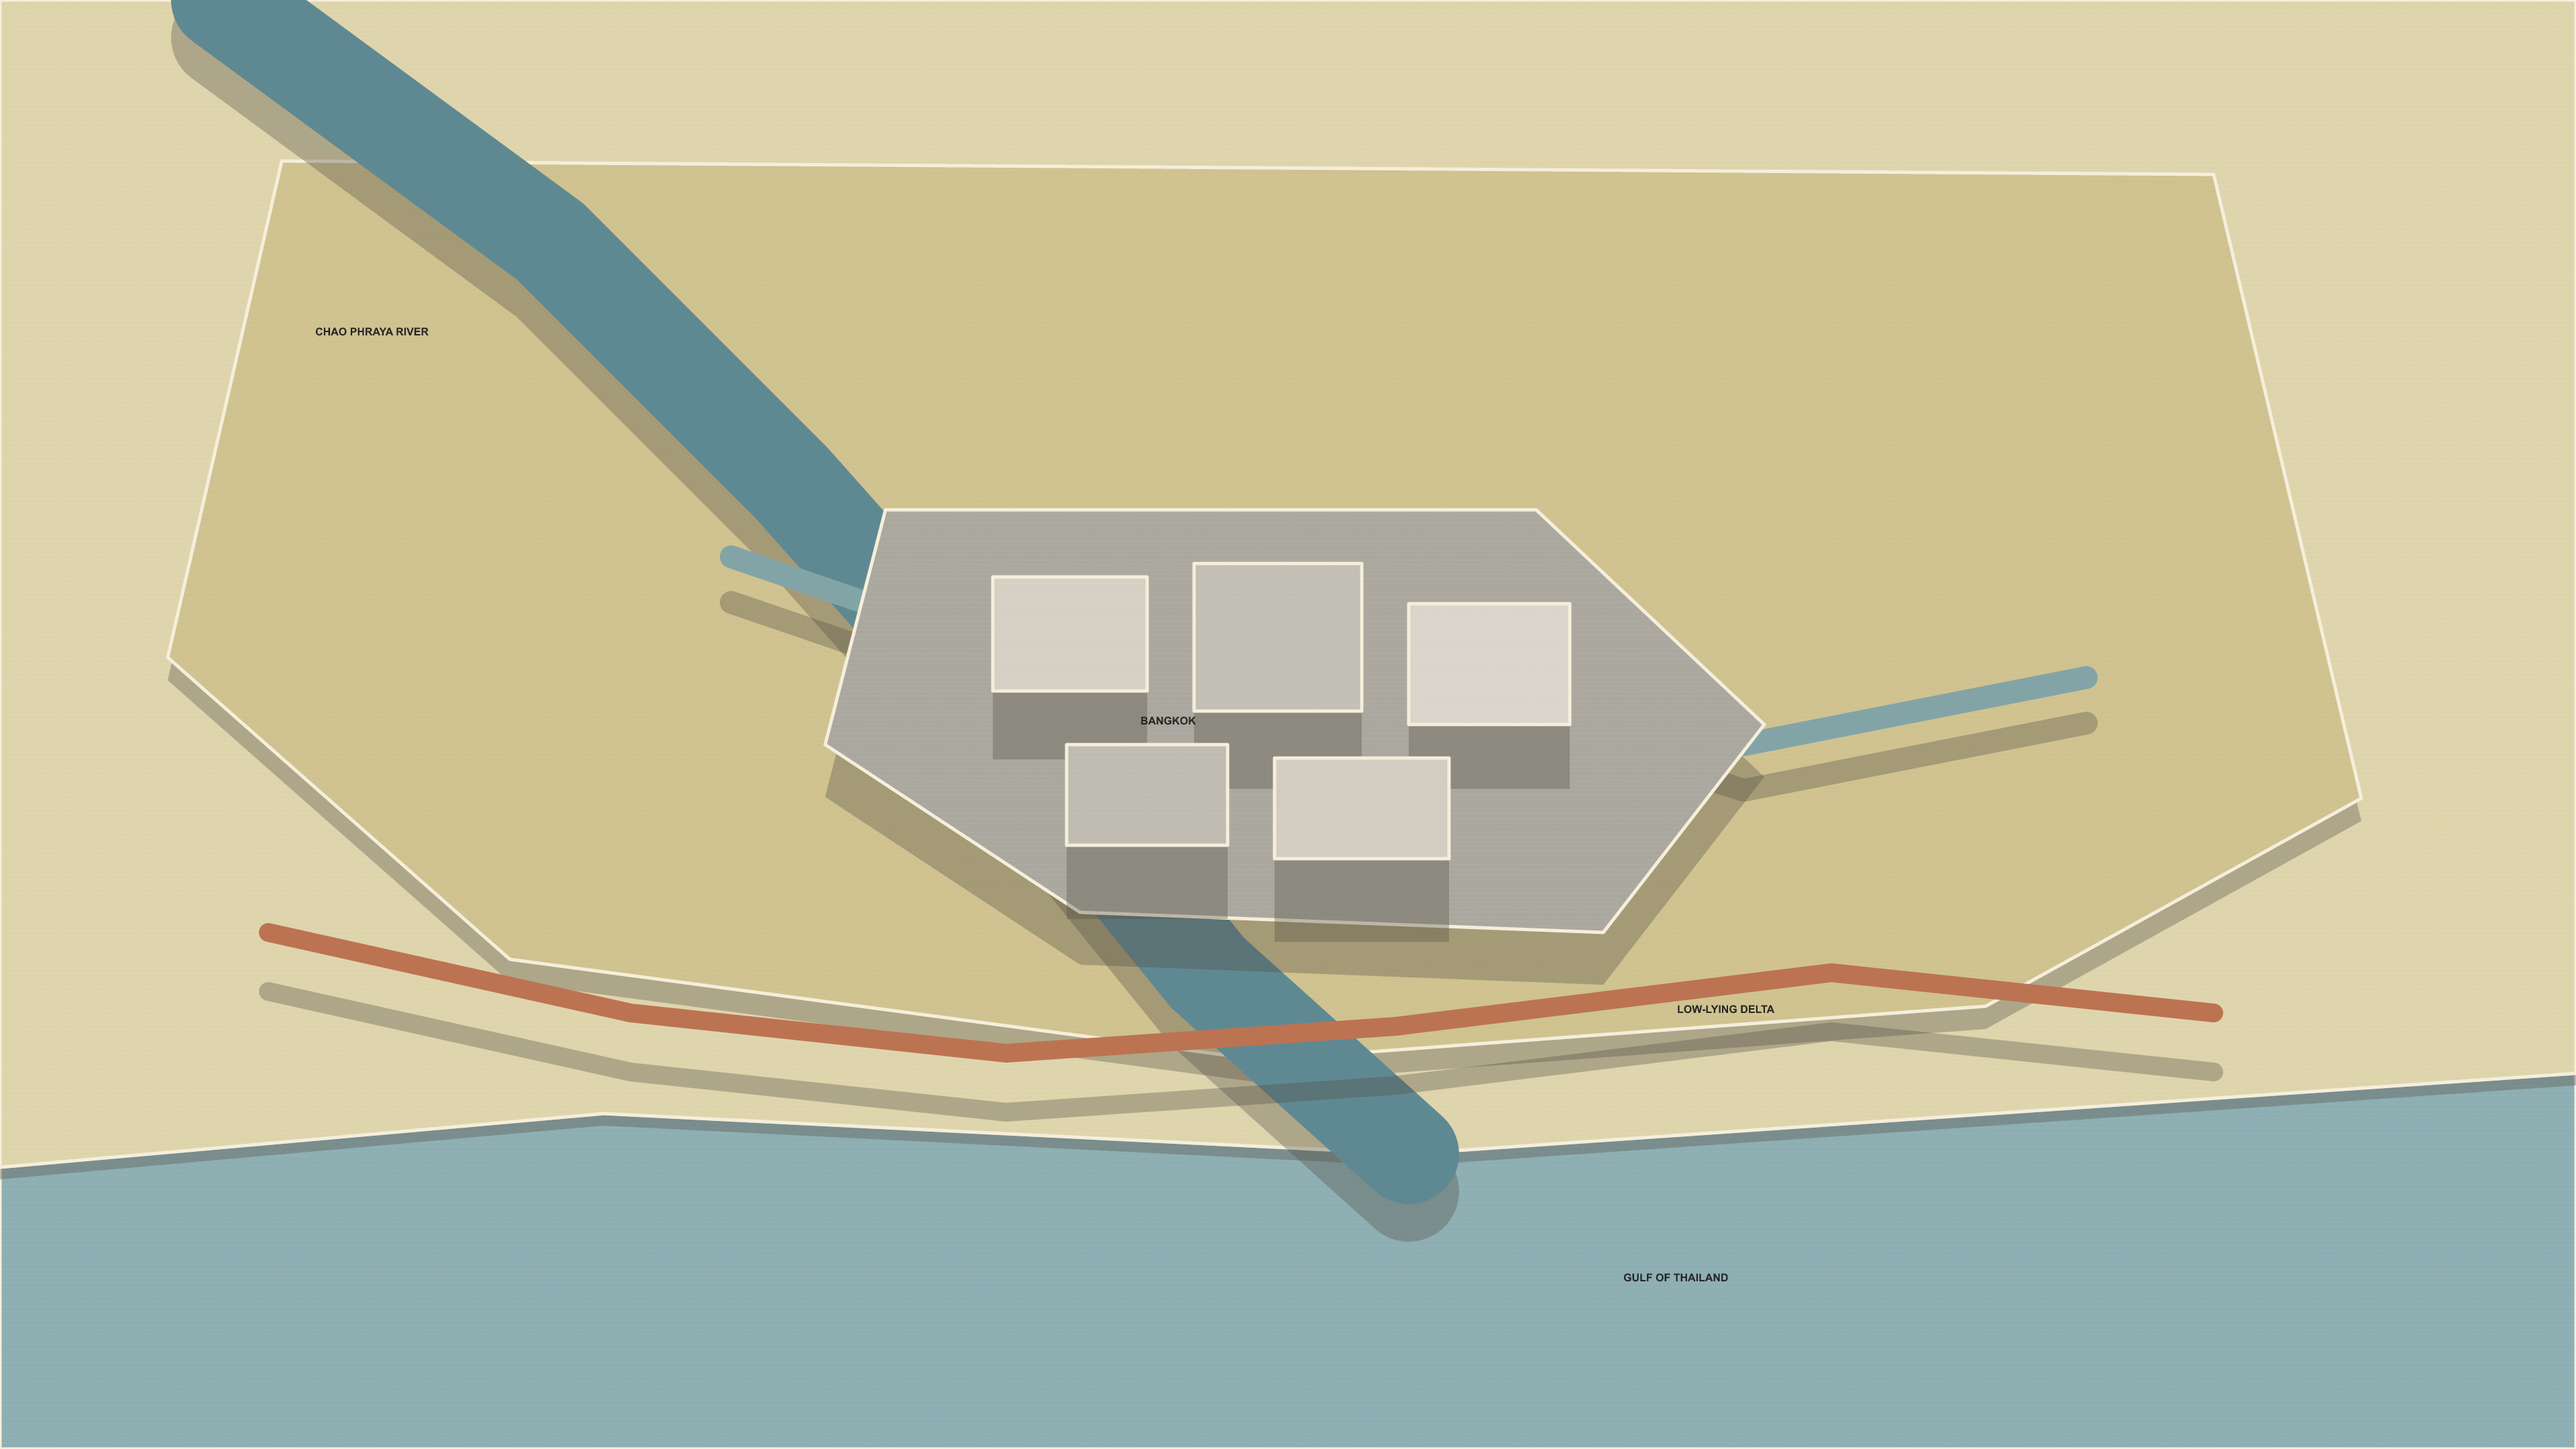
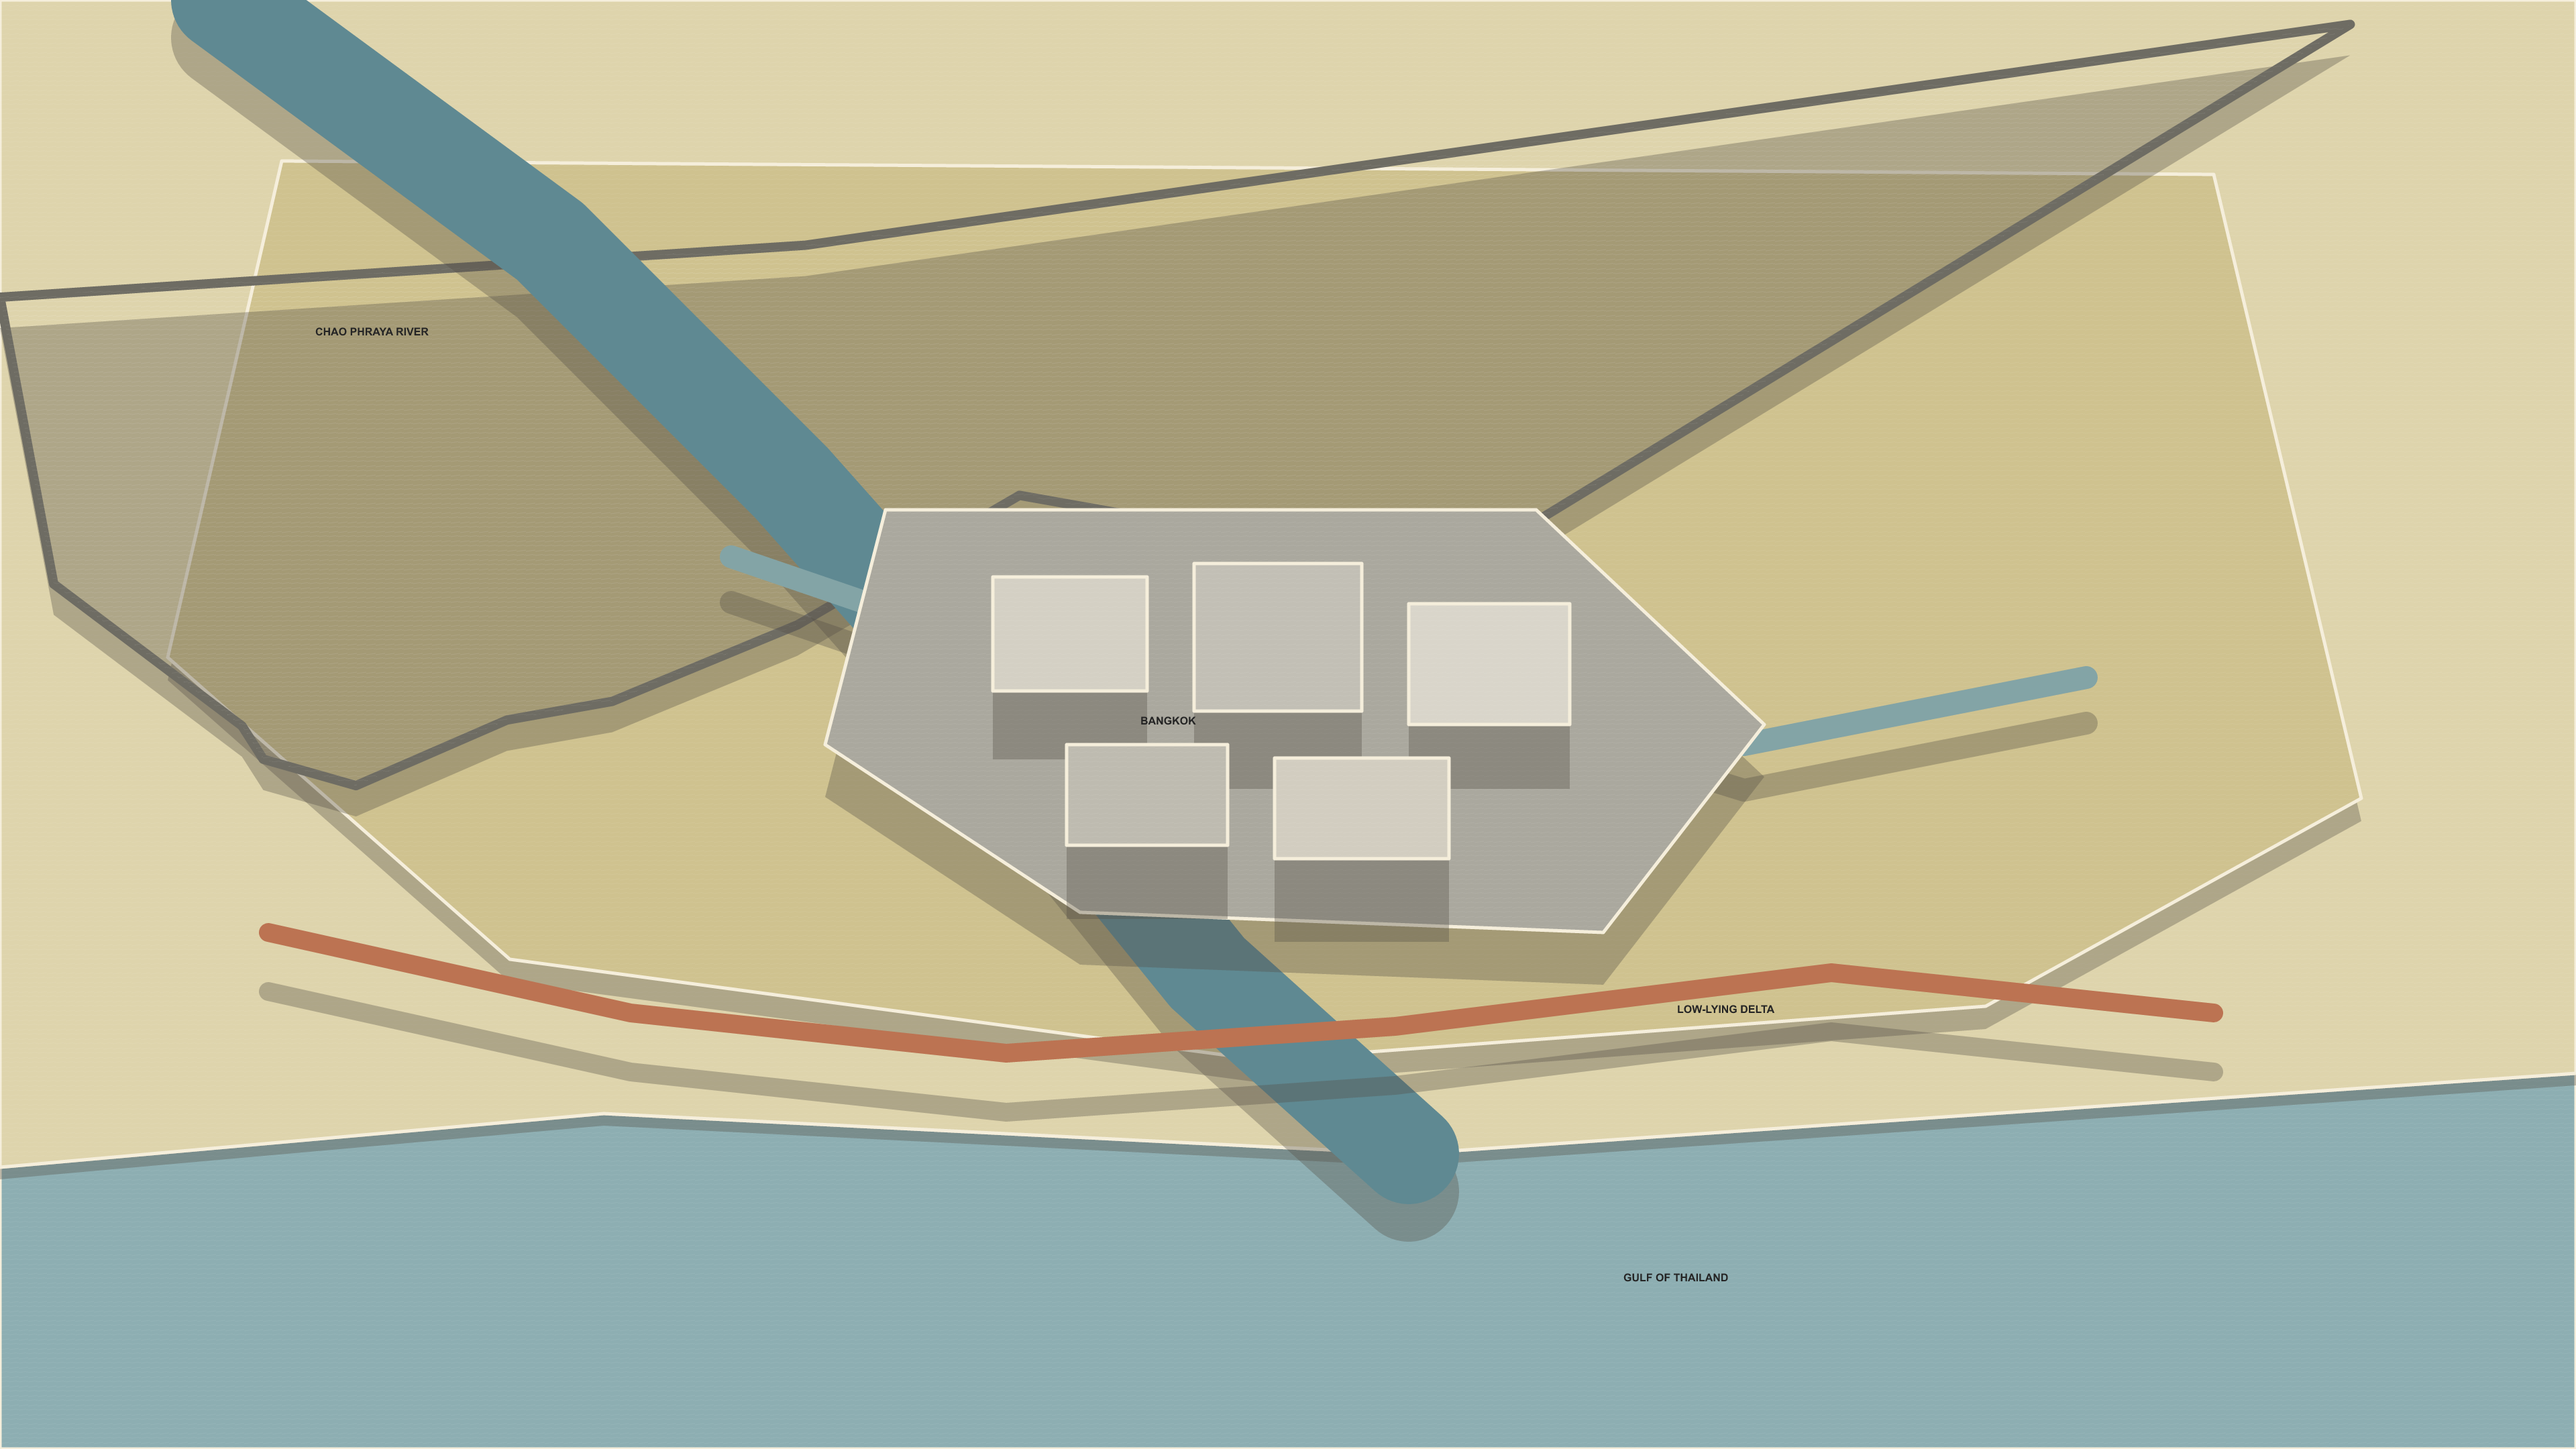
feat: import local GeoJSON scene geometry

Changed region(s): [[0.0, 0.0, 0.9062, 0.5583]]

diff --git a/src/lib.rs b/src/lib.rs
@@ -8,6 +8,8 @@ pub type RenderResult<T> = Result<T, Box<dyn Error>>;
 struct Scene {
     #[serde(default)]
     canvas: Canvas,
+    #[serde(default)]
+    bounds: Option<[f64; 4]>,
     background: String,
     layers: Vec<Layer>,
     #[serde(default)]
@@ -41,6 +43,8 @@ struct Layer {
     stroke_width: f32,
     #[serde(default)]
     lift: f32,
+    #[serde(default)]
+    geojson: Option<String>,
     points: Vec<[f32; 2]>,
     #[serde(default)]
     sources: Vec<String>,
@@ -69,10 +73,19 @@ struct SourceReference {
     retrieved: String,
 }
 
+#[derive(Deserialize)]
+#[serde(tag = "type")]
+enum GeoJson {
+    Feature { geometry: Box<GeoJson> },
+    LineString { coordinates: Vec<[f64; 2]> },
+    Polygon { coordinates: Vec<Vec<[f64; 2]>> },
+}
+
 pub fn render_source_pack(pack: impl AsRef<Path>, output: impl AsRef<Path>) -> RenderResult<()> {
     let pack = pack.as_ref();
-    let scene: Scene = yaml_serde::from_str(&fs::read_to_string(pack.join("scene.yaml"))?)?;
+    let mut scene: Scene = yaml_serde::from_str(&fs::read_to_string(pack.join("scene.yaml"))?)?;
     let sources: Sources = yaml_serde::from_str(&fs::read_to_string(pack.join("sources.yaml"))?)?;
+    resolve_geojson(&mut scene, pack)?;
     validate(&scene, &sources)?;
 
     let svg = compose_svg(&scene);
@@ -88,6 +101,52 @@ pub fn render_source_pack(pack: impl AsRef<Path>, output: impl AsRef<Path>) -> R
     );
     pixmap.save_png(output)?;
     Ok(())
+}
+
+fn resolve_geojson(scene: &mut Scene, pack: &Path) -> RenderResult<()> {
+    let Some([west, south, east, north]) = scene.bounds else {
+        if scene.layers.iter().any(|layer| layer.geojson.is_some()) {
+            return Err("Scene bounds are required for GeoJSON layers".into());
+        }
+        return Ok(());
+    };
+    if east <= west || north <= south {
+        return Err("Scene bounds must be west, south, east, north".into());
+    }
+    for layer in &mut scene.layers {
+        let Some(path) = &layer.geojson else {
+            continue;
+        };
+        let geojson: GeoJson = yaml_serde::from_str(&fs::read_to_string(pack.join(path))?)?;
+        let (kind, coordinates) = geometry_coordinates(geojson)?;
+        if (layer.kind == "line" && kind != "LineString")
+            || (layer.kind == "polygon" && kind != "Polygon")
+        {
+            return Err(format!("Layer '{}' does not match GeoJSON {kind}", layer.id).into());
+        }
+        layer.points = coordinates
+            .into_iter()
+            .map(|[longitude, latitude]| {
+                [
+                    ((longitude - west) / (east - west) * scene.canvas.width as f64) as f32,
+                    ((north - latitude) / (north - south) * scene.canvas.height as f64) as f32,
+                ]
+            })
+            .collect();
+    }
+    Ok(())
+}
+
+fn geometry_coordinates(geojson: GeoJson) -> RenderResult<(&'static str, Vec<[f64; 2]>)> {
+    match geojson {
+        GeoJson::Feature { geometry } => geometry_coordinates(*geometry),
+        GeoJson::LineString { coordinates } => Ok(("LineString", coordinates)),
+        GeoJson::Polygon { coordinates } => coordinates
+            .into_iter()
+            .next()
+            .map(|ring| ("Polygon", ring))
+            .ok_or_else(|| "GeoJSON Polygon needs a linear ring".into()),
+    }
 }
 
 fn validate(scene: &Scene, sources: &Sources) -> RenderResult<()> {
@@ -114,6 +173,9 @@ fn validate(scene: &Scene, sources: &Sources) -> RenderResult<()> {
                 layer.id, layer.kind
             )
             .into());
+        }
+        if layer.points.len() < if layer.kind == "polygon" { 3 } else { 2 } {
+            return Err(format!("Layer '{}' has too few points", layer.id).into());
         }
         validate_references(
             &layer.sources,

diff --git a/tests/render_source_pack.rs b/tests/render_source_pack.rs
@@ -161,6 +161,59 @@ sources:
 }
 
 #[test]
+fn renders_a_local_geojson_line() {
+    let pack = temporary_pack();
+    fs::create_dir_all(pack.join("data")).unwrap();
+    fs::write(
+        pack.join("scene.yaml"),
+        r##"
+canvas:
+  width: 120
+  height: 80
+bounds: [100.0, 13.0, 101.0, 14.0]
+background: "#ffffff"
+layers:
+  - id: river
+    kind: line
+    stroke: "#334455"
+    stroke_width: 10
+    points: []
+    geojson: data/river.geojson
+    sources: [basin]
+"##,
+    )
+    .unwrap();
+    fs::write(
+        pack.join("sources.yaml"),
+        r#"
+sources:
+  - id: basin
+    title: Test source
+    url: https://example.com/source
+    license: CC0-1.0
+    retrieved: 2026-09-16
+"#,
+    )
+    .unwrap();
+    fs::write(
+        pack.join("data/river.geojson"),
+        r#"{"type":"Feature","geometry":{"type":"LineString","coordinates":[[100.1,13.9],[100.9,13.1]]},"properties":{}}"#,
+    )
+    .unwrap();
+    let output = pack.join("render.png");
+
+    render_source_pack(&pack, &output).unwrap();
+
+    let decoder = png::Decoder::new(BufReader::new(fs::File::open(&output).unwrap()));
+    let mut reader = decoder.read_info().unwrap();
+    let mut pixels = vec![0; reader.output_buffer_size().unwrap()];
+    reader.next_frame(&mut pixels).unwrap();
+    let river = &pixels[(40 * 120 + 60) * 4..(40 * 120 + 61) * 4];
+    assert!(river[0] < 100 && river[1] < 100 && river[2] < 100);
+    fs::remove_dir_all(pack).unwrap();
+}
+
+#[test]
 fn rejects_layers_without_a_source_reference() {
     let pack = temporary_pack();
     write_source_pack(&pack, "[]");

diff --git a/docs/source-pack.md b/docs/source-pack.md
@@ -17,6 +17,7 @@ title: Bangkok's Flat Delta
 canvas:
   width: 3840
   height: 2160
+bounds: [100.3278772, 13.2191019, 100.9386039, 13.9551693]
 background: "#edf0e7"
 layers:
   - id: terrain
@@ -38,6 +39,8 @@ labels:
 ```
 
 Supported layer kinds are `polygon` and `line`. Omit `canvas` to render at the default 3840×2160. The Scene source retains named layers; phase one exports one flattened PNG.
+
+For local GeoJSON, add `geojson: data/file.geojson` to a layer and set `bounds` as `[west, south, east, north]`. The first release accepts GeoJSON `LineString` and `Polygon` geometry, including a single `Feature`; it projects longitude/latitude coordinates into the Scene canvas.
 
 ## `sources.yaml`
 
